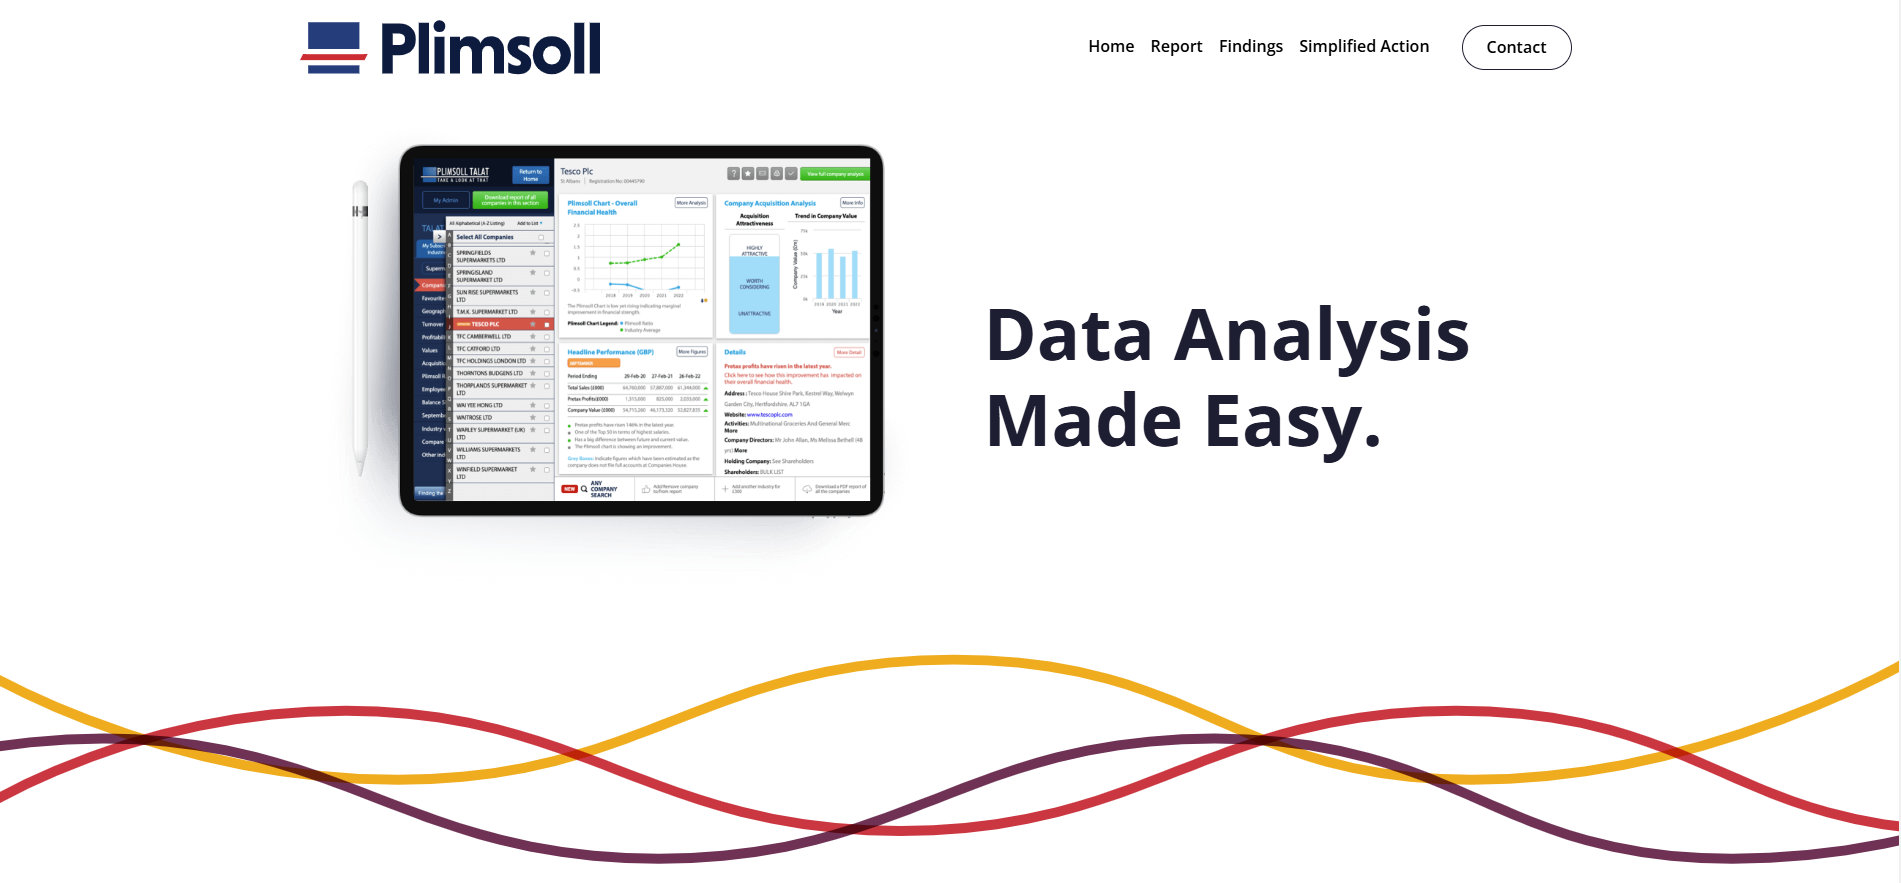
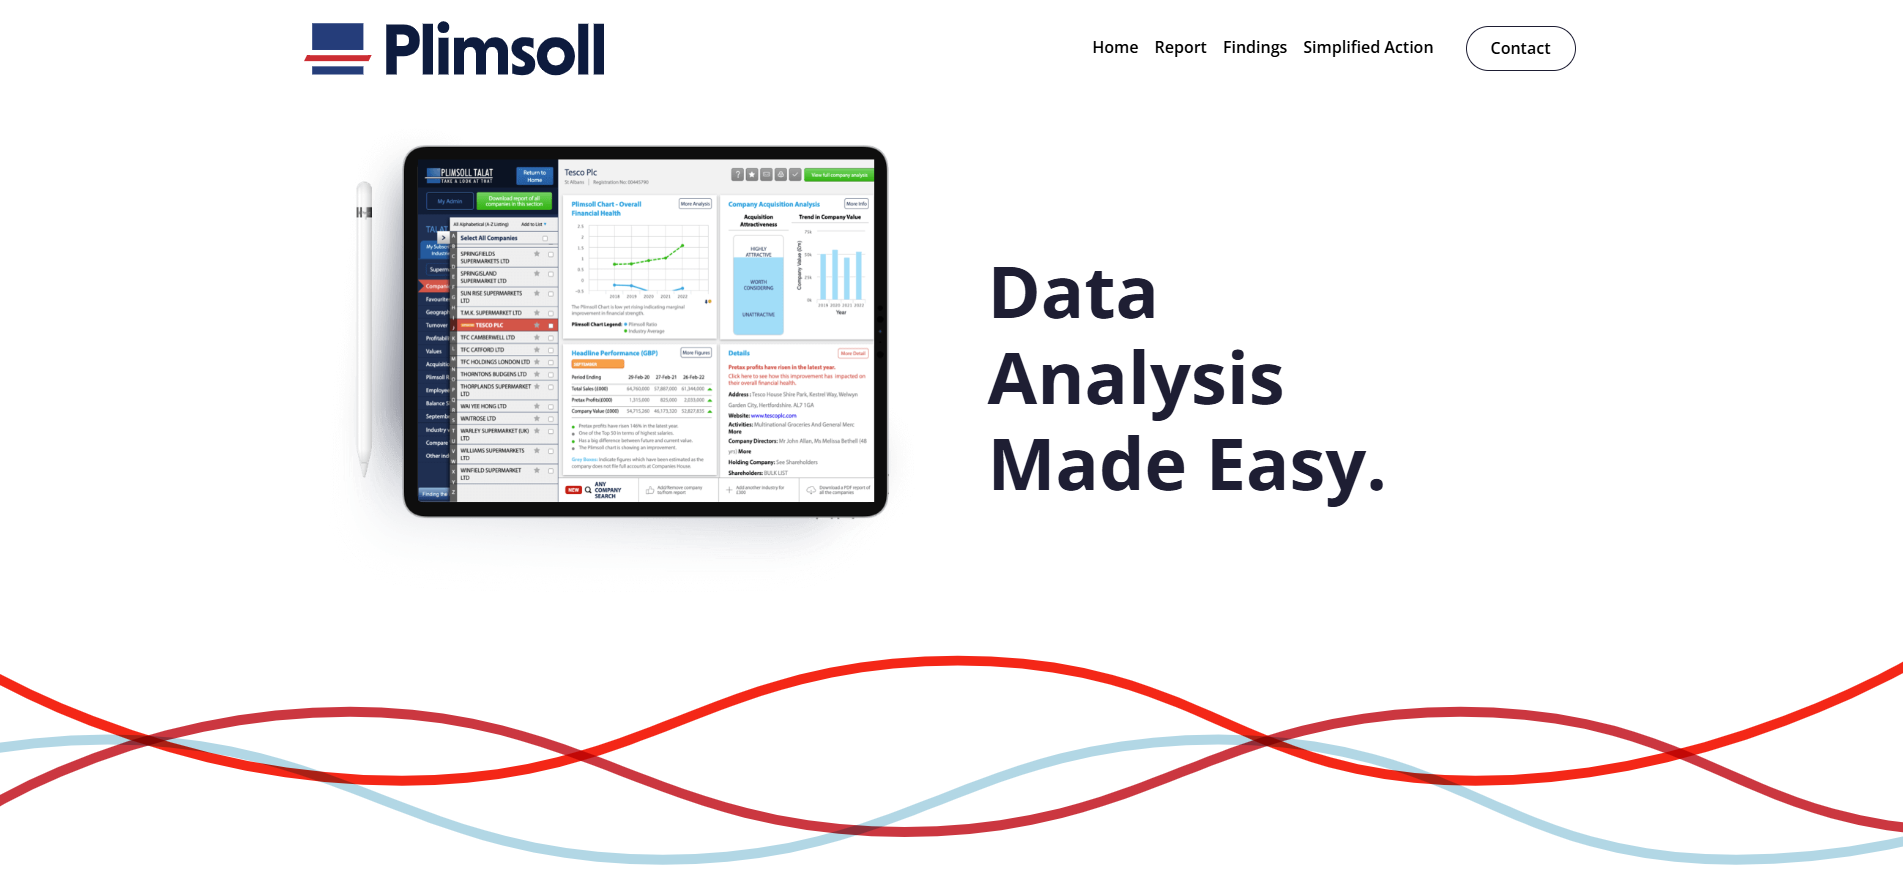
improvements

diff --git a/index.html b/index.html
@@ -75,7 +75,7 @@
 
     <!-- Swirl -->
     <div class="p-0">
-      <img src="images/swirl-lines.svg" alt="Swirls Image" class="swirls" />
+      <img src="images/swirl-lines-2.svg" alt="Swirls Image" class="swirls" />
     </div>
 
 <!-- Report -->
@@ -140,7 +140,7 @@
             <!--Signature with swirls -->
         <section class="signature position-relative mb-5 overflow-hidden">
           <img
-            src="images/swirl-lines.svg"
+            src="images/swirl-lines-2.svg"
             alt="graphic swirl image"
             class="swirl-lines position-absolute d-none d-md-block"
           />

diff --git a/contact.html b/contact.html
@@ -109,7 +109,7 @@
   </section>
 
   <!-- Footer -->
-  <footer class="border-top border-primary bg-dark text-white py-4">
+  <footer class="border-top border-danger border-2 bg-dark text-white py-4">
     <div class="container">
       <div class="row">
         <div class="col-md-8">

diff --git a/readme.md b/readme.md
@@ -2,24 +2,24 @@
 
 Bootstrap website for showcasing the Plimsoll Brochure. This website has a light, business-like design.
 
-<!-- change the below -->
 <img src="/images/website-screenshot.png"  />
 
 ## Features
 
-- Modern layout with custom colors/styles/backgrounds
+- Modern layout with custom colours/styles/backgrounds
 - Responsive design
 - Sticky navbar with style changes on scroll
+- Jump to top button
 - Report Data
-- Findings
-- Simplified Action
-- Contact page 
+- Findings Information
+- Simplified Action Objectives
+- Contact Page
 
 ## Usage
 
 This website is built with [Bootstrap](https://getbootstrap.com/) and [Sass](https://sass-lang.com/). It uses [Font Awesome](https://fontawesome.com/) for icons.
 
-In order to customize this website, you need to install [Node.js](https://nodejs.org/en/). Then, clone this repository and run:
+In order to customise this website, you need to install [Node.js](https://nodejs.org/en/). Then, clone this repository and run:
 
 ```bash
 npm install
